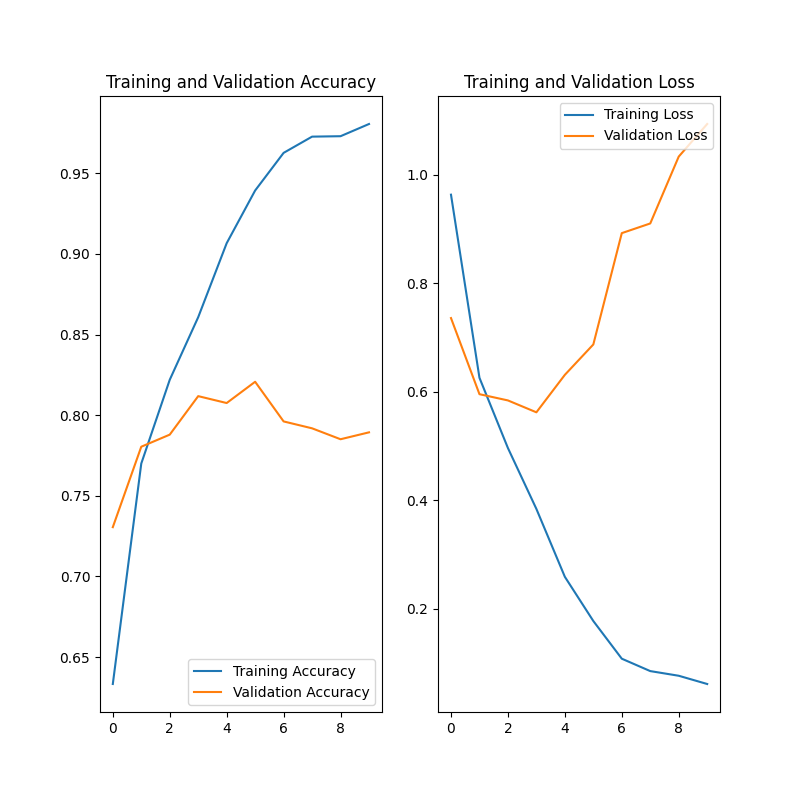
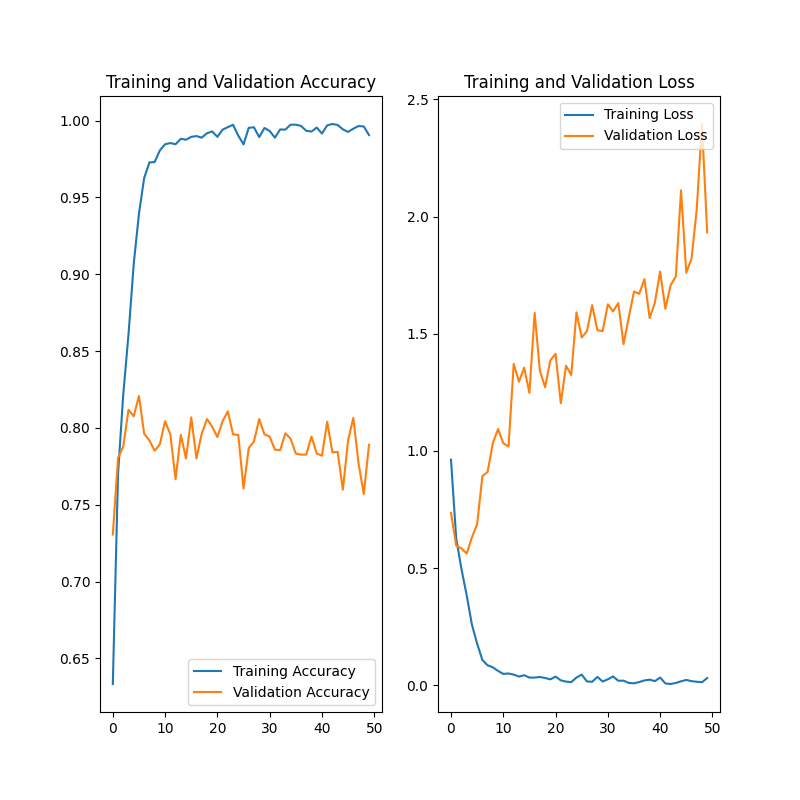
50epochplots

diff --git a/doCNN.py b/doCNN.py
@@ -113,7 +113,7 @@ class doCNN:
 
 
 if __name__ == "__main__":
-    epochs = 10
+    epochs = 50
     train_ds = getCNNData()
     val_ds = getCNNData(dataset="train",subset="validation")
     history,model  = doCNN.doCNN(train_ds,val_ds,epochs=epochs)
